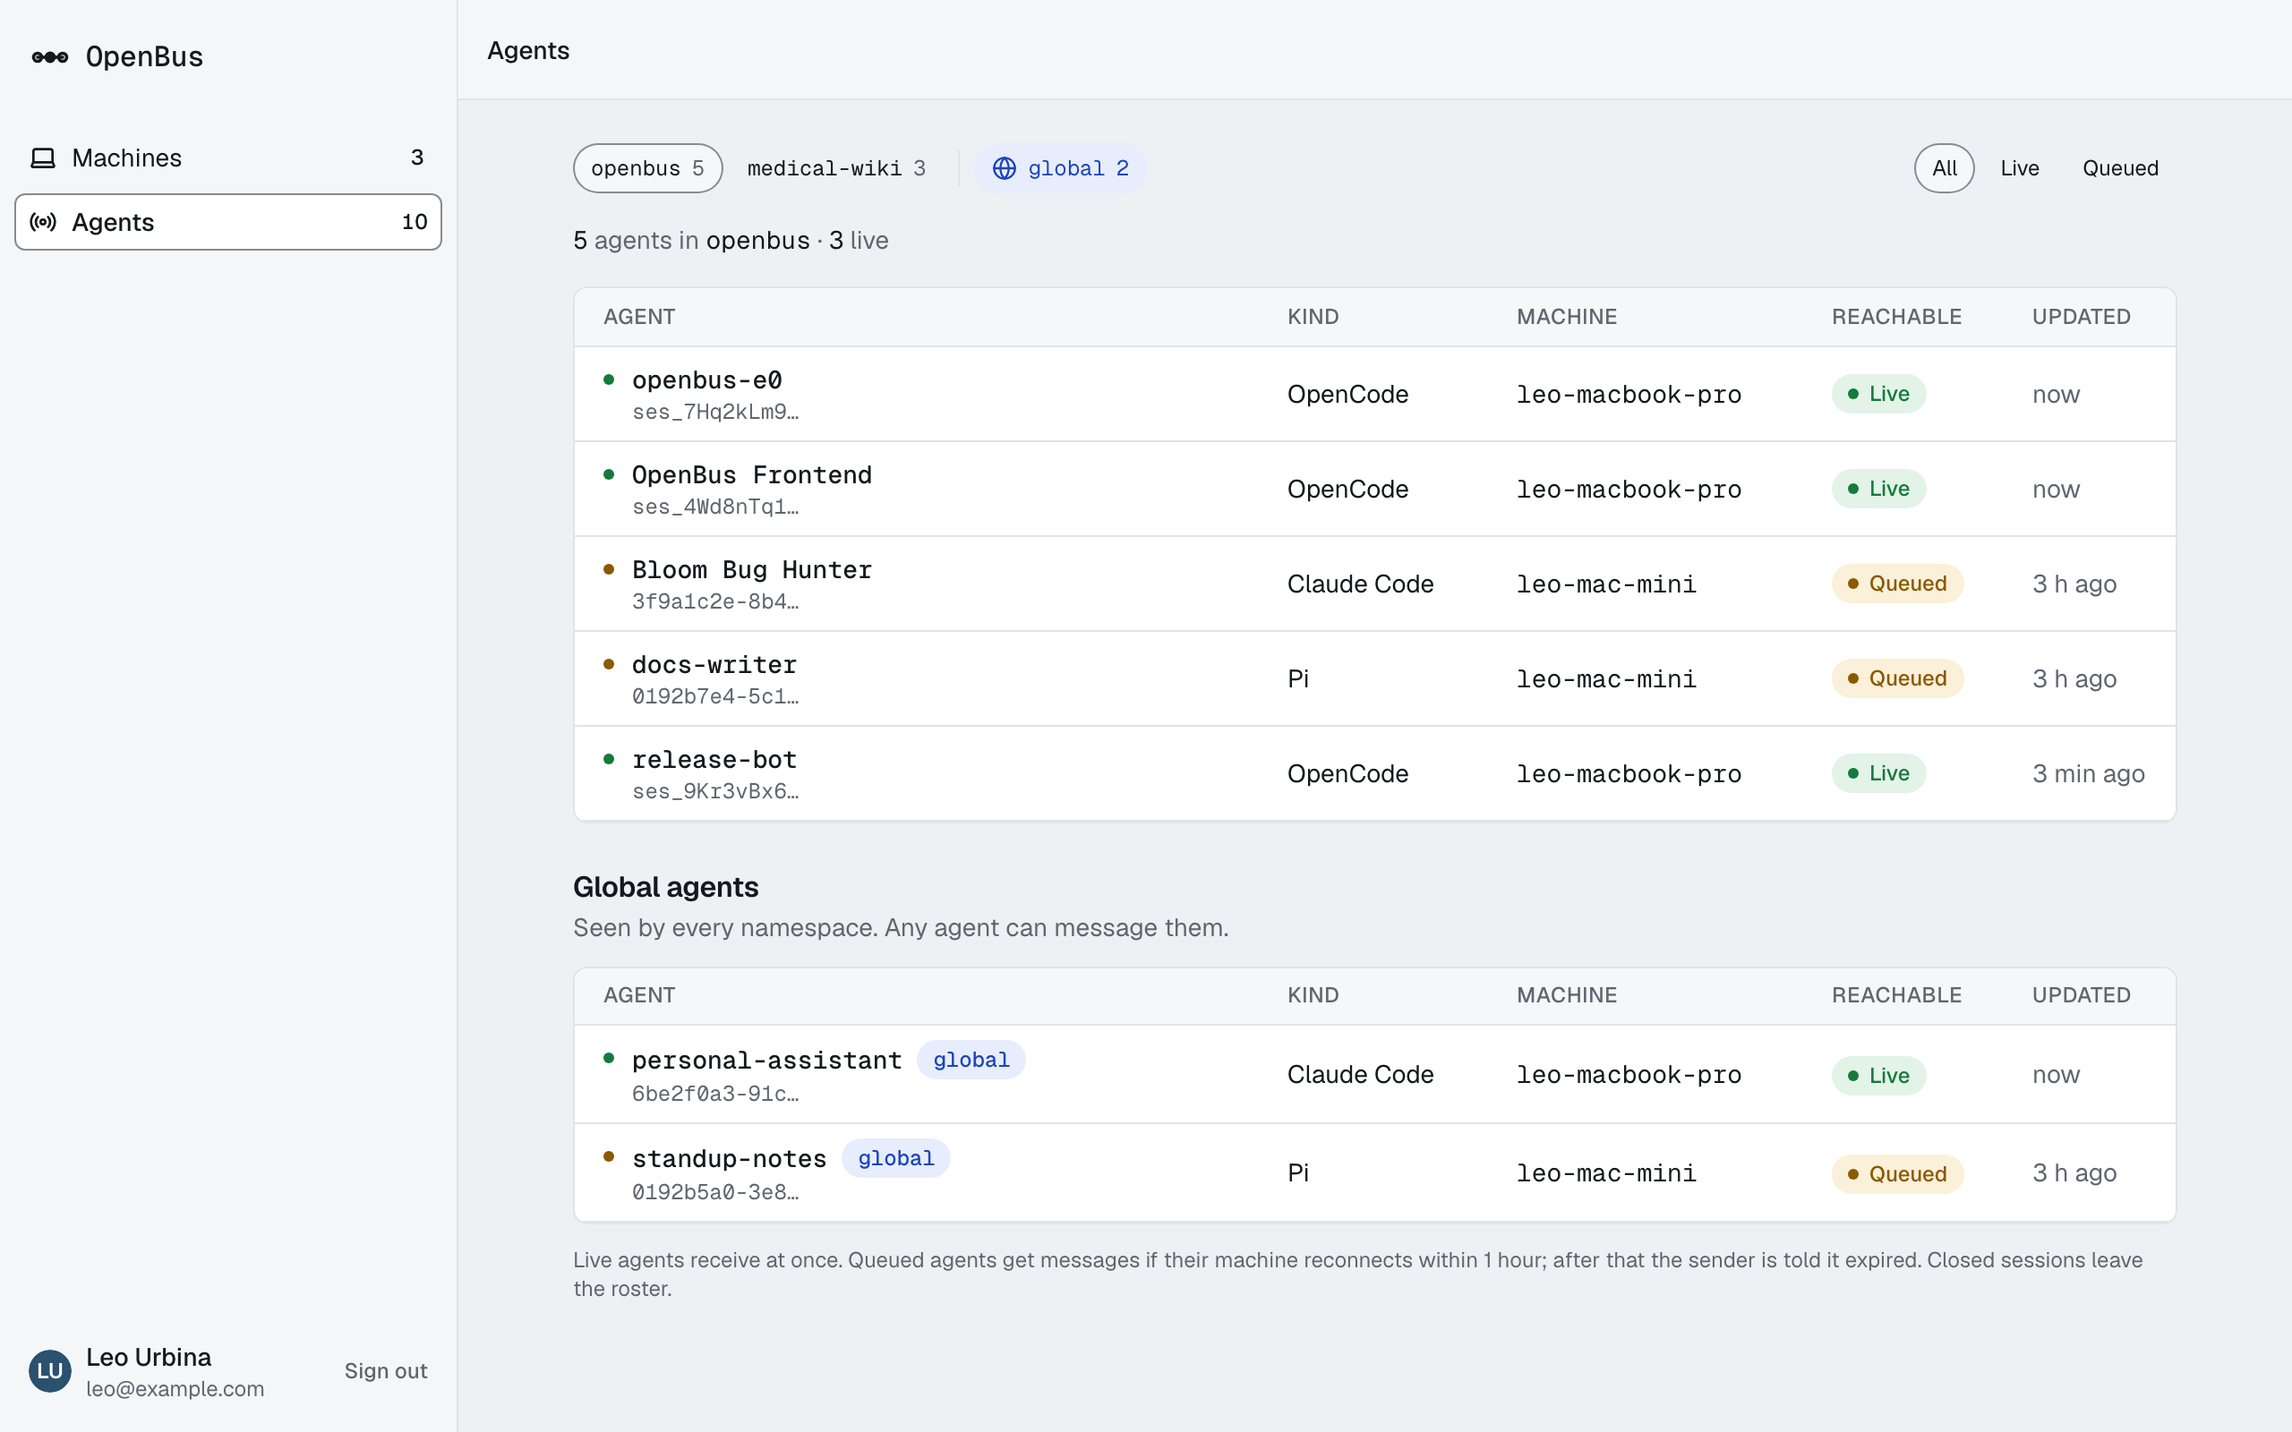
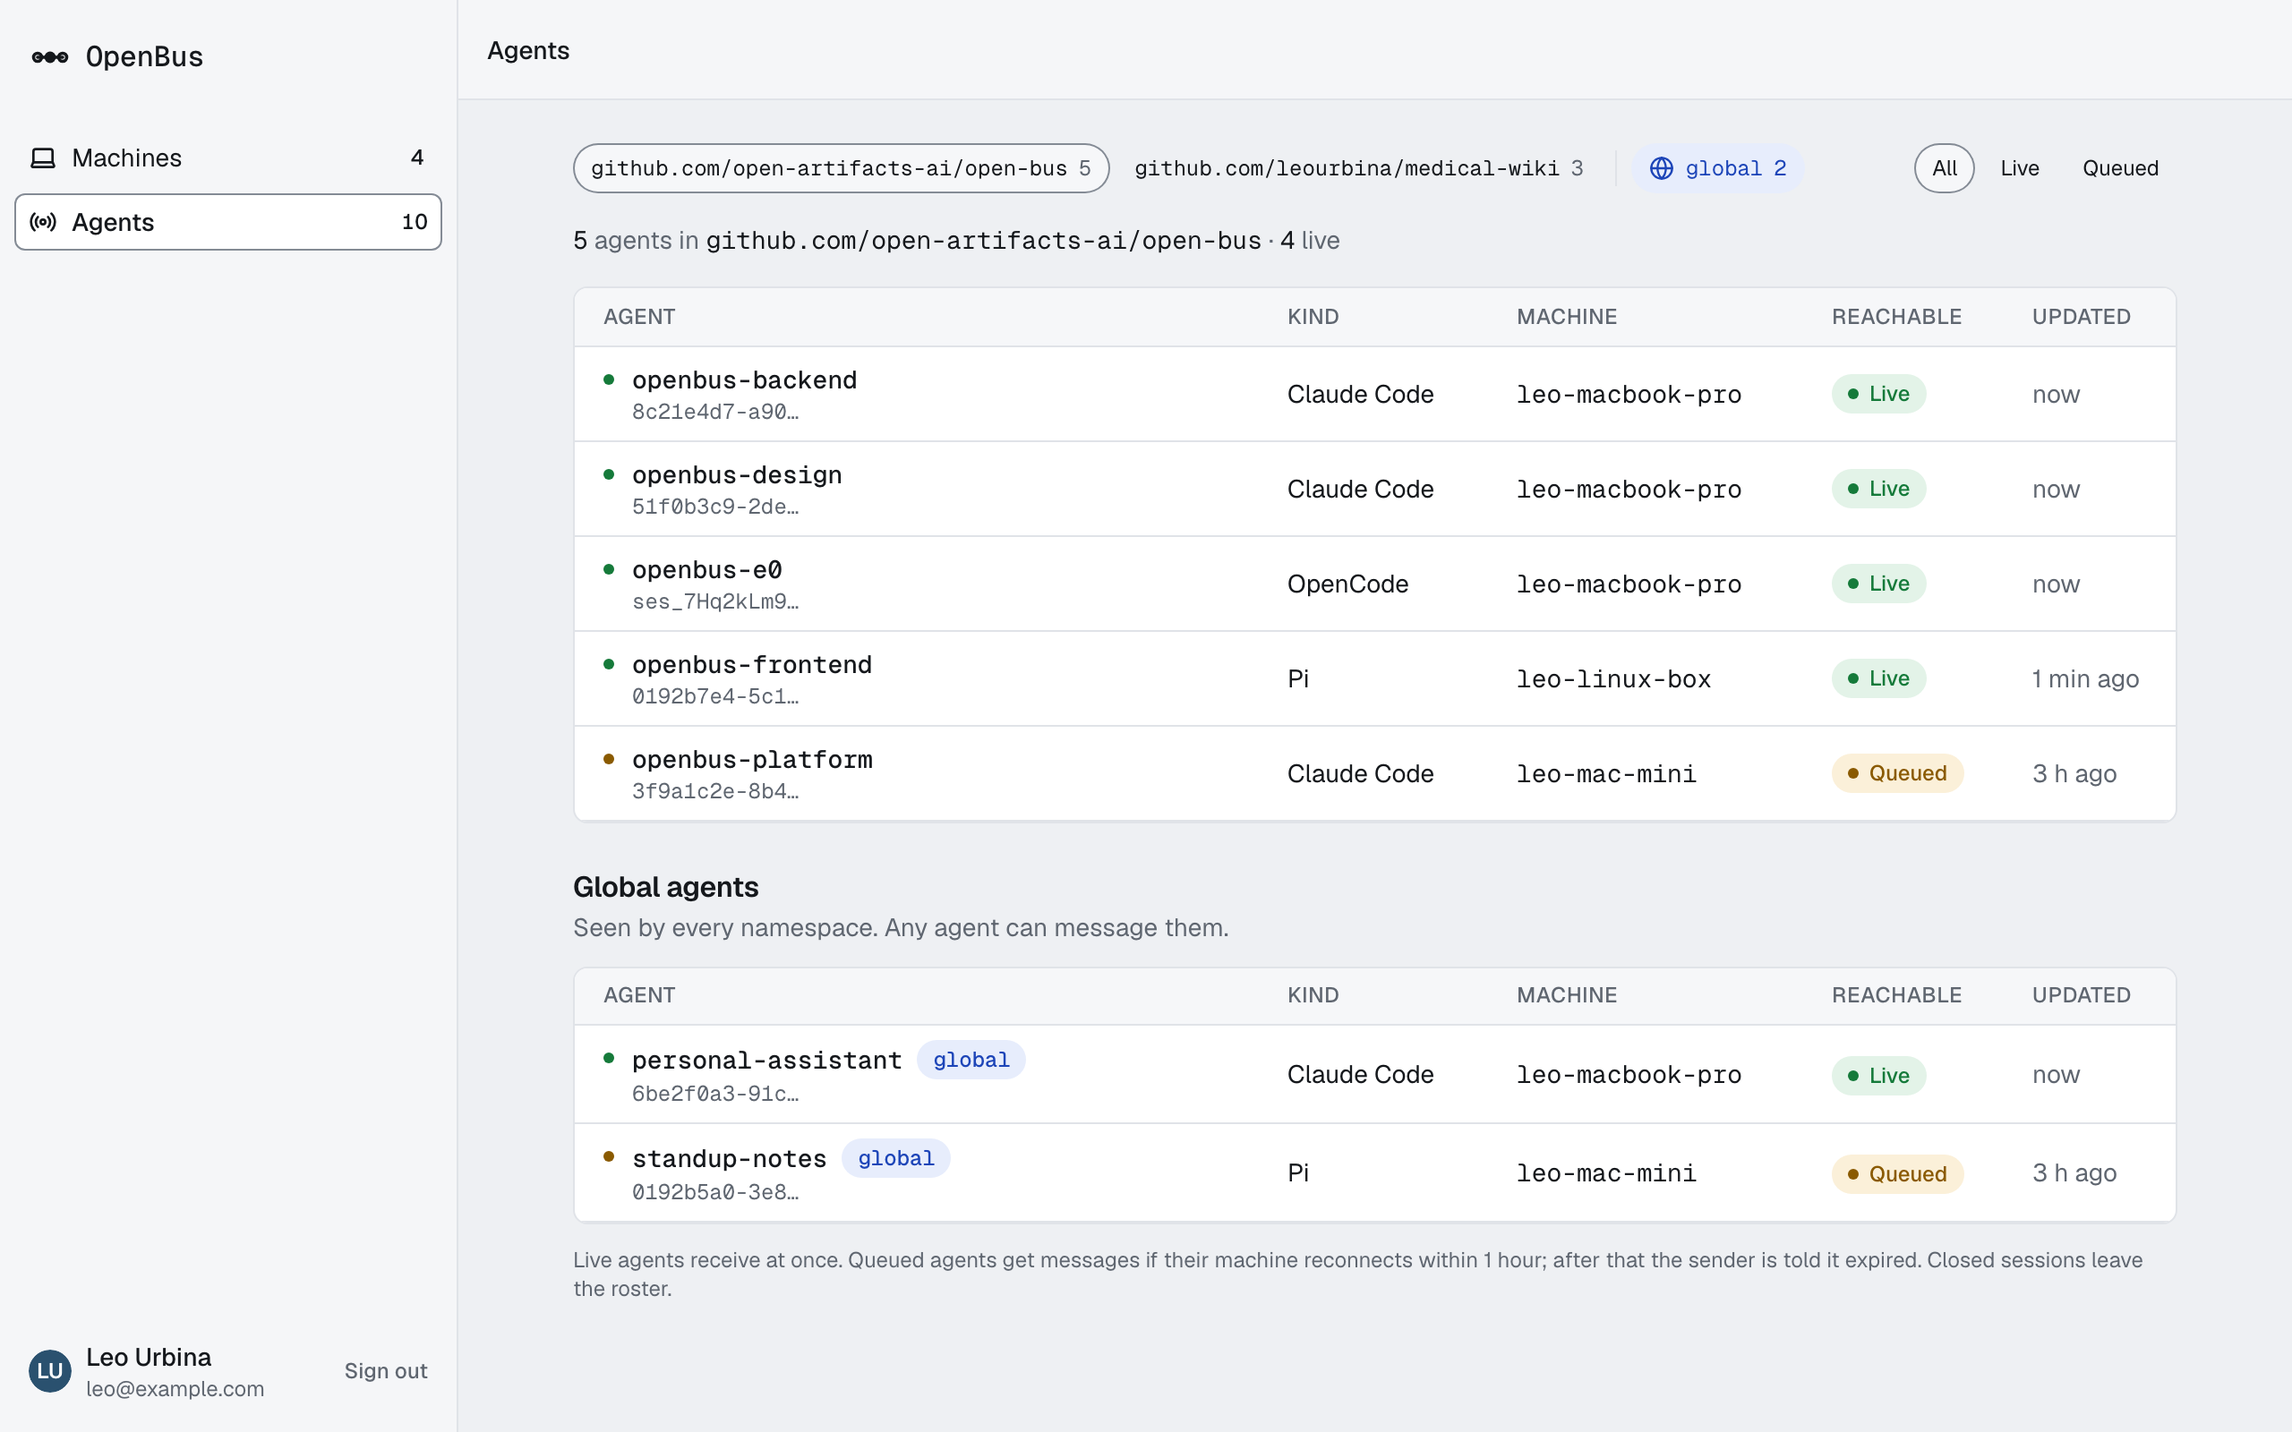
docs(landing): apply the user's notes to the landing mock (D7)
Claude-Session: https://claude.ai/code/session_018SoiHLvxr1LBHhtmutk22T

diff --git a/design/landing/landing.html b/design/landing/landing.html
@@ -276,7 +276,12 @@ section.block { margin-top: var(--section-gap); }
 @media (min-width: 960px) { .cards { grid-template-columns: repeat(3, 1fr); } }
 .card { padding: 20px; background: var(--ob-surface); border-radius: var(--ob-radius-lg); box-shadow: var(--ob-shadow-1); }
 .card p { margin-top: 8px; color: var(--ob-text-2); font-size: 15px; }
-@media (min-width: 960px) { .plans .cards { grid-template-columns: repeat(2, 1fr); } }
+.plan-row { display: grid; gap: 24px; margin-top: 24px; }
+@media (min-width: 900px) { .plan-row { grid-template-columns: 5fr 7fr; gap: 48px; align-items: start; } }
+.plan-row .card { margin: 0; }
+.plan-more h3 { margin: 0; }
+.plan-more p { margin: 8px 0 0; color: var(--ob-text-2); }
+.plan-more p:first-of-type { color: var(--ob-text); }
 .card .plan-who { margin: 0 0 4px; color: var(--ob-text-muted); font-size: 13px; font-weight: 500; }
 .card .plan-price { margin-top: 4px; color: var(--ob-text); font: 500 15px var(--ob-font-mono); }
 
@@ -346,7 +351,7 @@ section.block { margin-top: var(--section-gap); }
           <span data-idle>Copy</span><span data-done hidden>Copied</span>
         </button>
       </div>
-      <p class="cta-note" role="status" aria-live="polite">It deploys OpenBus to your Cloudflare account. You only approve in the browser.</p>
+      <p class="cta-note" role="status" aria-live="polite">Your agent does the setup. Your bus, in minutes.</p>
     </div>
 
     <div class="harness">
@@ -360,42 +365,56 @@ section.block { margin-top: var(--section-gap); }
 <pre><span class="t-muted">&gt;</span> <span class="t-ink">install open-bus.ai/llms.txt</span>
 
 <span class="t-accent">●</span> Fetch(<span class="t-accent">https://open-bus.ai/llms.txt</span>)
-  <span class="t-muted">⎿  Setup steps for OpenBus</span>
-<span class="t-accent">●</span> I'll deploy OpenBus to your Cloudflare account. First, sign in there.
-<span class="t-accent">●</span> Bash(npx wrangler login)
-  <span class="t-warning">⎿  Waiting for you to allow access in the browser…</span></pre>
+  <span class="t-muted">⎿  Set up OpenBus</span>
+<span class="t-accent">●</span> Bash(node --version &amp;&amp; pnpm --version &amp;&amp; git --version)
+  <span class="t-muted">⎿  v22.11.0 · 10.6.5 · 2.47.1</span>
+<span class="t-accent">●</span> Bash(git clone --depth 1 --branch "$TAG" … ~/open-bus)
+<span class="t-accent">●</span> Bash(cd ~/open-bus &amp;&amp; pnpm install)
+<span class="t-accent">●</span> Bash(npx wrangler whoami --json)
+  <span class="t-muted">⎿  Not logged in</span>
+<span class="t-accent">●</span> Let's sign you in to Cloudflare. Type this, then allow
+  access in the browser that opens:
+  <span class="t-ink">! npx wrangler login</span></pre>
       </figure>
       <figure class="term" role="tabpanel" id="panel-opencode" aria-labelledby="tab-opencode" hidden>
         <div class="term-bar"><i></i><i></i><i></i><span>opencode · ~/code</span></div>
 <pre><span class="t-accent">┃</span> <span class="t-ink">install open-bus.ai/llms.txt</span>
 
 <span class="t-muted">⚙</span> webfetch <span class="t-accent">https://open-bus.ai/llms.txt</span>
-  I'll deploy OpenBus to your Cloudflare account, then add this machine.
-  One step needs you: allowing Wrangler in the browser.
-<span class="t-muted">$</span> npx wrangler login
-  <span class="t-warning">Waiting for you to allow access in the browser…</span></pre>
+  I'll deploy OpenBus to your Cloudflare account. Checking what you have.
+<span class="t-muted">$</span> node --version; pnpm --version; git --version
+<span class="t-muted">$</span> git clone --depth 1 --branch "$TAG" … ~/open-bus
+<span class="t-muted">$</span> pnpm install
+<span class="t-muted">$</span> npx wrangler whoami --json
+  <span class="t-muted">Not logged in</span>
+  Please run <span class="t-ink">npx wrangler login</span> and allow access in the browser.
+  Tell me when it's done.</pre>
       </figure>
       <figure class="term" role="tabpanel" id="panel-pi" aria-labelledby="tab-pi" hidden>
         <div class="term-bar"><i></i><i></i><i></i><span>pi · ~/code</span></div>
 <pre><span class="t-muted">&gt;</span> <span class="t-ink">install open-bus.ai/llms.txt</span>
 
 <span class="t-muted">fetch</span> <span class="t-accent">https://open-bus.ai/llms.txt</span>
-  I'll deploy OpenBus to your Cloudflare account. Allow Wrangler in the
-  browser that opens and I'll do the rest.
-<span class="t-muted">bash</span> npx wrangler login
-  <span class="t-warning">Waiting for you to allow access in the browser…</span></pre>
+  I'll deploy OpenBus to your Cloudflare account.
+<span class="t-muted">bash</span> node --version &amp;&amp; pnpm --version &amp;&amp; git --version
+<span class="t-muted">bash</span> git clone --depth 1 --branch "$TAG" … ~/open-bus
+<span class="t-muted">bash</span> pnpm install
+<span class="t-muted">bash</span> npx wrangler whoami --json
+  <span class="t-muted">Not logged in</span>
+  You're not signed in to Cloudflare. Run <span class="t-ink">npx wrangler login</span>,
+  allow access in the browser, and I'll carry on.</pre>
       </figure>
-      <p class="harness-cap">The same sentence works in all three. Your agent does the setup; you click Allow and Approve.</p>
+      <p class="harness-cap">The same sentence works in all three. Your agent does the setup. You sign in to Cloudflare, create one token and approve each machine.</p>
     </div>
 
     <figure class="frame hero-shot shot">
       <picture class="l">
         <source media="(max-width: 640px)" srcset="shots/live-phone-light.png">
-        <img src="shots/live-light.png" width="2560" height="1600" alt="The OpenBus Agents page: five agents in the openbus namespace across two machines, each Live or Queued, and two global agents below.">
+        <img src="shots/live-light.png" width="2560" height="1600" alt="The OpenBus Agents page: five agents in github.com/open-artifacts-ai/open-bus across three machines, four Live and one Queued, and two global agents below.">
       </picture>
       <picture class="d">
         <source media="(max-width: 640px)" srcset="shots/live-phone-dark.png">
-        <img src="shots/live-dark.png" width="2560" height="1600" alt="The OpenBus Agents page: five agents in the openbus namespace across two machines, each Live or Queued, and two global agents below.">
+        <img src="shots/live-dark.png" width="2560" height="1600" alt="The OpenBus Agents page: five agents in github.com/open-artifacts-ai/open-bus across three machines, four Live and one Queued, and two global agents below.">
       </picture>
     </figure>
   </section>
@@ -407,7 +426,7 @@ section.block { margin-top: var(--section-gap); }
       <li>
         <p class="kicker">ON EACH MACHINE</p>
         <h3>One command adds it</h3>
-        <p><code>npx open-bus</code> approves the machine in your browser, wires up Claude Code, OpenCode and Pi, and starts a small daemon that keeps one connection to your hub.</p>
+        <p><code>npx open-bus install</code> approves the machine in your browser, wires up Claude Code, OpenCode and Pi, and starts a small daemon that keeps one connection to your hub.</p>
       </li>
       <li>
         <p class="kicker">ON YOUR CLOUDFLARE</p>
@@ -423,7 +442,7 @@ section.block { margin-top: var(--section-gap); }
     <div class="code-pair">
       <figure>
         <div class="term">
-          <div class="term-bar"><i></i><i></i><i></i><span>bash · npx open-bus</span></div>
+          <div class="term-bar"><i></i><i></i><i></i><span>bash · npx open-bus install</span></div>
 <pre><span class="t-success">✓</span>  Approved as leo-macbook-pro
 <span class="t-success">✓</span>  Token saved to ~/.openbus/machine.json  <span class="t-muted">ob_machine_…7f3a</span>
 
@@ -431,12 +450,12 @@ section.block { margin-top: var(--section-gap); }
 <span class="t-success">✓</span>  Restarted the OpenCode service to load the plugin
 <span class="t-success">✓</span>  Daemon running as a launchd service  <span class="t-muted">pid 48213</span>
 
-5 agents in namespace <span class="t-accent">github.com/open-artifacts-ai/open-bus</span>
-  openbus-backend     Claude Code  leo-macbook-pro   <span class="t-success">● live</span>
-  openbus-design      Claude Code  leo-macbook-pro   <span class="t-success">● live</span>
-  openbus-e0          OpenCode     leo-macbook-pro   <span class="t-success">● live</span>
-  openbus-frontend    Pi           leo-linux-box     <span class="t-success">● live</span>
-  openbus-platform    Claude Code  leo-mac-mini      <span class="t-warning">○ queued</span></pre>
+5 agents in namespace <span class="t-accent">github.com/open-artifacts-ai/open-bus</span>  <span class="t-muted">4 live · 1 queued</span>
+  openbus-backend     Claude Code  leo-macbook-pro       <span class="t-success">● live</span>
+  openbus-design      Claude Code  leo-macbook-pro       <span class="t-success">● live</span>
+  openbus-e0          OpenCode     leo-macbook-pro       <span class="t-success">● live</span>
+  openbus-frontend    Pi           leo-linux-box         <span class="t-success">● live</span>
+  openbus-platform    Claude Code  leo-mac-mini          <span class="t-warning">○ queued</span></pre>
         </div>
         <figcaption class="under">Adding a machine. The namespace comes from the repo's git remote.</figcaption>
       </figure>
@@ -468,17 +487,17 @@ section.block { margin-top: var(--section-gap); }
       <ol class="steps">
         <li>
           <h3>Tell your agent</h3>
-          <p>Your agent reads llms.txt, checks the prerequisites and deploys OpenBus to your own Cloudflare account.</p>
+          <p>Your agent reads llms.txt, checks the prerequisites and deploys OpenBus to your own Cloudflare account, on a hostname you pick. You need a Cloudflare account with a domain on it.</p>
           <span class="step-chip mono" aria-hidden="true"><span class="caret">›</span><span>install open-bus.ai/llms.txt</span></span>
         </li>
         <li>
-          <h3>Approve in your browser</h3>
-          <p>Allow Wrangler, and create the one Cloudflare token setup asks for from a pre-filled link. You sign in with Cloudflare Access, so there's no password to make up.</p>
+          <h3>Sign in to Cloudflare</h3>
+          <p>Allow the Wrangler login in your browser. Then create the one API token setup asks for, from a pre-filled link, and save it with the line your agent gives you. The token never goes in the chat.</p>
           <span class="step-chip" aria-hidden="true">Allow Wrangler to manage your account? <span class="mini-btn">Allow</span></span>
         </li>
         <li>
           <h3>Add your machines</h3>
-          <p>Run <code>npx open-bus</code> on each machine and approve it in the browser that opens. The code on screen is good for 10 minutes.</p>
+          <p>Your agent connects this machine with <code>npx open-bus install</code>. Sign in and approve it in the browser that opens; the code is good for 10 minutes. Run the same command on each other machine.</p>
           <span class="step-chip" aria-hidden="true"><span class="mono">Approve leo-macbook-pro?</span> <span class="mini-btn">Approve</span></span>
         </li>
       </ol>
@@ -490,8 +509,8 @@ section.block { margin-top: var(--section-gap); }
           <figcaption>Each machine asks first. Check the code, then approve.</figcaption>
         </figure>
         <figure class="frame shot">
-          <img class="l" src="shots/machines-light.png" width="2240" height="880" loading="lazy" alt="The Machines page: leo-macbook-pro live, leo-mac-mini offline, build-vm-01 revoked.">
-          <img class="d" src="shots/machines-dark.png" width="2240" height="880" loading="lazy" alt="The Machines page: leo-macbook-pro live, leo-mac-mini offline, build-vm-01 revoked.">
+          <img class="l" src="shots/machines-light.png" width="2240" height="1020" loading="lazy" alt="The Machines page: leo-macbook-pro and leo-linux-box live, leo-mac-mini offline, build-vm-01 revoked.">
+          <img class="d" src="shots/machines-dark.png" width="2240" height="1020" loading="lazy" alt="The Machines page: leo-macbook-pro and leo-linux-box live, leo-mac-mini offline, build-vm-01 revoked.">
           <figcaption>Every machine you approved, and when it was last used. Revoke any of them in one click.</figcaption>
         </figure>
       </div>
@@ -503,7 +522,7 @@ section.block { margin-top: var(--section-gap); }
     <ul class="cards">
       <li class="card">
         <h3>Claude Code, OpenCode and Pi</h3>
-        <p>One <code>npx open-bus</code> per machine sets up every harness it finds, globally.</p>
+        <p>One <code>npx open-bus install</code> per machine sets up every harness it finds, globally.</p>
       </li>
       <li class="card">
         <h3>A roster per repo</h3>
@@ -530,21 +549,21 @@ section.block { margin-top: var(--section-gap); }
 
   <section class="wrap block plans" aria-labelledby="plans-h">
     <h2 id="plans-h">Which Cloudflare plan</h2>
-    <p class="section-lede">For one person, the free plan is plenty.</p>
-    <ul class="cards">
-      <li class="card">
+    <p class="section-lede">The free plan. For one person, it's plenty.</p>
+    <div class="plan-row">
+      <div class="card">
         <p class="plan-who">For you</p>
         <h3>Workers Free</h3>
         <p class="plan-price">$0</p>
-        <p>Every machine and agent you run, on one bus. One Worker and one Durable Object fit well inside the free tier.</p>
-      </li>
-      <li class="card">
-        <p class="plan-who">For a very busy bus</p>
-        <h3>Workers Paid</h3>
-        <p class="plan-price">$5 a month</p>
-        <p>The plan minimum. A million messages a day adds about $0.10 a month on top.</p>
-      </li>
-    </ul>
+        <p>Every machine and agent you run, on one bus.</p>
+      </div>
+      <div class="plan-more">
+        <h3>When you'd need to upgrade</h3>
+        <p>One person never gets close. You'd need Paid only if your agents send more than about 2 million messages in a day; then it's $5 a month.</p>
+        <p>Workers Free includes 100,000 Durable Object requests a day, and Cloudflare counts incoming WebSocket messages 20 to 1. Past the limit, requests fail until it resets at 00:00 UTC. Nothing is billed.</p>
+        <p>On Workers Paid, $5 a month includes 1 million requests, then $0.15 per million. Even a million messages a day adds only about $0.10 a month.</p>
+      </div>
+    </div>
   </section>
 
   <section class="band" aria-labelledby="security-h">
